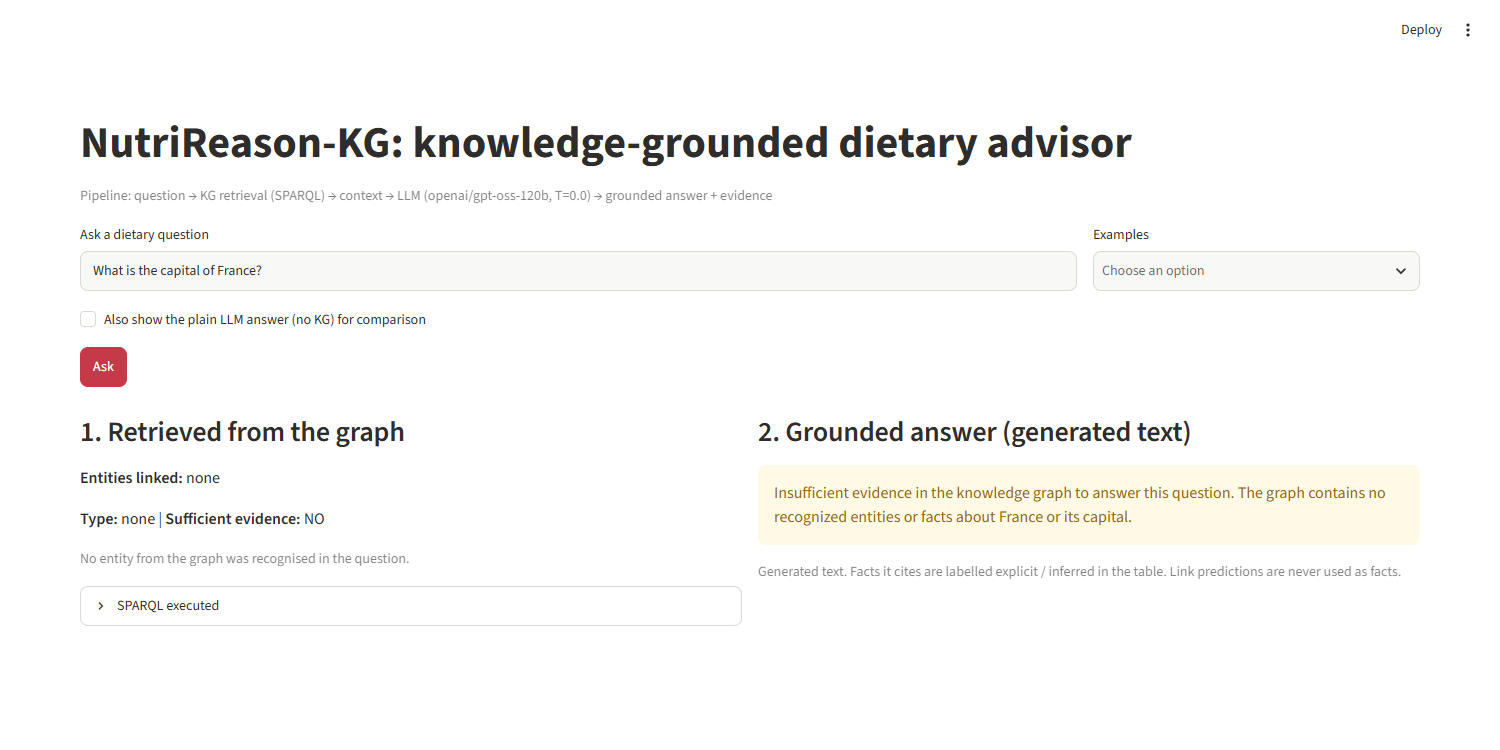
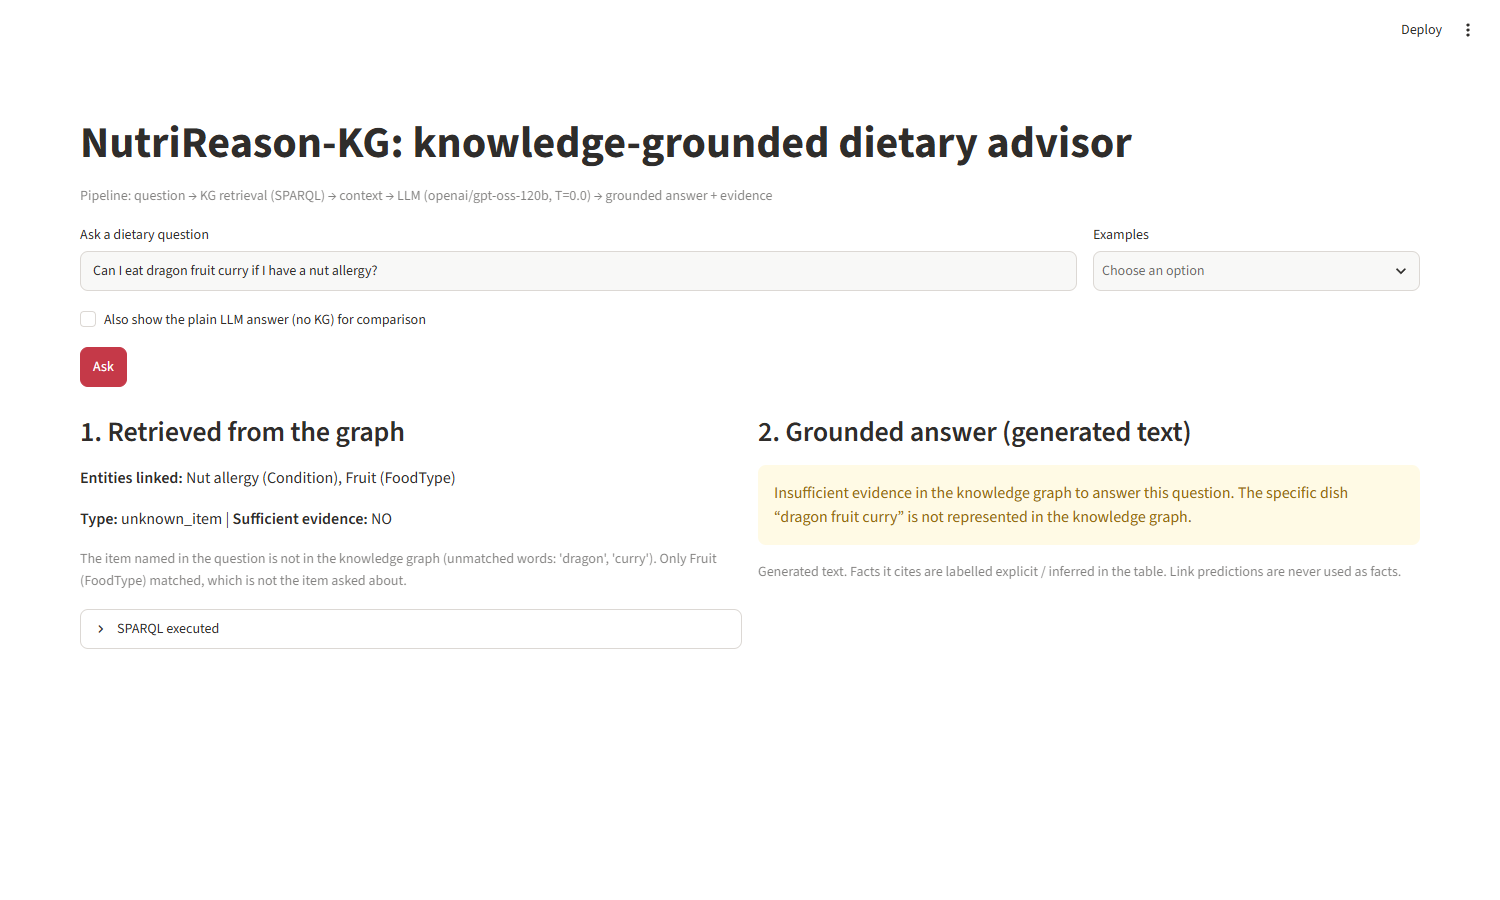
App screenshot for declined unknown item (dragon fruit curry); update Figure 16 caption; app/report script fixes

diff --git a/Report/build_report.py b/Report/build_report.py
@@ -138,7 +138,7 @@ B("<b>T-Box (Ontology/nutrireason_tbox.ttl, built in Protégé).</b> 12 core cla
   "10 object properties (hasIngredient, isIngredientOf, containsAllergen, belongsToGroup, partOfCategory, triggers, unsafeFor, hasRule, appliesTo, hasSource, restrictsNutrient) and 5 datatype properties (sugarPer100g, sodiumPer100g, caloriesPer100g, thresholdValue, ruleAction).")
 B("<b>Reasoning-enabling constructs:</b> RC1 subclass hierarchy (PeanutAllergen is a NutAllergen); RC2 hasValue restriction (NutAllergen triggers NutAllergy); RC3 transitive property partOfCategory; RC4 inverse property hasIngredient / isIngredientOf; RC5 property chain hasIngredient o containsAllergen -> containsAllergen; RC6 SWRL rules R1-R4 (+R5), re-implemented as SPARQL INSERT rules (Ontology/rules_graphdb.ru) because GraphDB does not execute SWRL.")
 B("<b>A-Box.</b> Generated by build_kg.py from D1 (food allergens: groups, types, classes), D2 (259 dishes and ingredients), D3 (USDA nutrients, 5,140 foods) and D4 (5 dietary rules). "
-  "Counts verified with rdflib in this iteration: <b>42,478 explicit triples</b> (T-Box + A-Box), <b>+7,673 inferred</b> by the rules = 50,151 total, far above the 500-triple minimum.")
+  "Counts verified with rdflib in this iteration: <b>42,424 explicit triples</b> (T-Box + A-Box), <b>+7,609 inferred</b> by the rules = 50,033 total, far above the 500-triple minimum. The same counts were confirmed in GraphDB 11.5.1 after the Iteration 2 reload (Figure 3).")
 B("<b>URI design.</b> Vocabulary uses a hash namespace (http://example.org/nutrireason# , prefix nr:), instances a slash namespace (.../resource/&lt;kind&gt;/&lt;slug&gt;) with kinds food, dish, ingredient, group, type, class, allergen, rule. Slug = lower-case ASCII with underscores (Almond Cookies -> dish/almond_cookies). Schema and data are separated; the same label in different kinds never clashes.")
 B("<b>Data cleaning (summary).</b> All CSVs read as text; whitespace and BOM removed; missing markers (None, N/A, NaN, '-') treated as null; exact duplicates and key duplicates dropped; USDA rows with missing/negative calories, sodium or sugar removed; D1 plurals folded for matching (almonds -> almond); allergens in D2 not explained by any ingredient asserted on the dish. Details: Report/DATA_PIPELINE.md.")
 img(P("Visualization", "protege_class_hierarchy.png"), "Figure 1. Class hierarchy in Protégé.", 13, 8)
@@ -197,9 +197,10 @@ for key, title in [("exp1_containsAllergen_explicit", "Experiment 1: hold out 15
           [[m, fm(d, "MRR"), fm(d, "Hits@1"), fm(d, "Hits@3"), fm(d, "Hits@10"), str(d["n_test"])] for m, d in metrics[key].items()],
           [4, 2.6, 2.6, 2.6, 2.6, 1.6])
 B("<b>Reading the results.</b> Hits@k is the fraction of held-out links whose true tail is in the model's top k; MRR is the mean of 1/rank. "
-  "<b>Experiment 1 (the meaningful test):</b> RotatE clearly beats the popularity baseline (MRR 0.60 vs 0.37, Hits@3 0.89 vs 0.43, Hits@10 0.97 vs 0.71), so it learns real structure about which ingredients carry which allergen. "
-  "TransE is weaker: it is better than the baseline only at Hits@10 and is <i>worse</i> on MRR and Hits@1, consistent with TransE's known difficulty with relations where many heads share one tail (many foods contain Dairy). "
-  "<b>Experiment 2 is a negative result:</b> unsafeFor has only four possible tails (the four conditions), so the popularity baseline is already very strong and it beats both embedding models on MRR and Hits@1. In addition, unsafeFor links are <i>derived</i> from containsAllergen/triggers and nutrient values, so the task is partly a re-derivation. We report it for transparency but draw no conclusion in favour of embeddings from it; for such deterministic links the symbolic rules are the right tool, and embeddings are useful for the sparse, noisy containsAllergen links.")
+  "<b>Experiment 1 (the meaningful test):</b> RotatE clearly beats the popularity baseline (MRR 0.612 vs 0.420; type-constrained 0.852 vs 0.420), so it learns real structure about which ingredients carry which allergen. "
+  "TransE is weaker (MRR 0.315, type-constrained 0.618; Hits@1 0.059 is below the baseline), consistent with TransE's known difficulty with relations where many heads share one tail (many foods contain Dairy). "
+  "<b>Type-constrained ranking.</b> The models first ranked every one of the 5,871 entities, while the baseline only ever ranks real allergens or conditions. Ranking only instances of the relation's range (45 allergens, 4 conditions) is the fair comparison; both columns are reported. "
+  "<b>Experiment 2 is a negative result:</b> against all entities the baseline has the best MRR (0.731 vs RotatE 0.662), but only because of the unequal ranking above. Type-constrained, the models are near-perfect (RotatE 0.994), yet only because all 2,071 unsafeFor links are produced by our own rules and leak through HighSugarFood/HighSodiumFood type triples (76% of them stay in training); random guessing among the 4 conditions already gives MRR 0.544. So Exp 2 does not show that embeddings find new knowledge; for such deterministic links the symbolic rules are the right tool. Full analysis and Experiment 3 (allergen suggestions for 289 foods with none, top 10 checked by hand): Report/LINK_PREDICTION.md.")
 H2("Sample predictions (labelled as predictions)")
 import csv
 for name in ["predictions_exp1_containsAllergen.csv", "predictions_exp2_unsafeFor.csv"]:
@@ -235,14 +236,15 @@ code("""User question
    v
 [5] Streamlit UI: question, linked entities, paths, fact table with tags, SPARQL executed, answer""")
 B("<b>Design choice.</b> We use SPARQL-template-generated context (a KG-RAG variant) rather than embedding-based retrieval, because the questions need exact numbers, thresholds and multi-hop paths, and templates make each retrieved fact auditable. The approach follows the retrieve-then-generate pattern of RAG (Lewis et al., 2020) and the surveys of graph-grounded generation (Edge et al., 2024; Peng et al., 2024), with structured graph facts instead of text chunks as context.")
-B("<b>Explicit vs inferred.</b> The graph is split into two files. abox.ttl + the T-Box hold the explicit triples; inferred.ttl (made by reasoning/materialize.py, i.e. the rules script run over the explicit graph) holds <i>only</i> the derived 7,673 triples. A retrieved fact is tagged explicit if it is in the first set and inferred if it is only in the second. GraphDB gives the same split by querying with inference switched off.")
-B("<b>Insufficient evidence.</b> If no graph entity or supported question pattern is recognised, or the SPARQL returns no facts, the retriever returns sufficient = false and the prompt instructs the model to reply 'Insufficient evidence in the knowledge graph'. If the model is given facts that do not contain the answer it must also decline (see the unseen-question check).")
+B("<b>Explicit vs inferred.</b> The graph is split into two files. abox.ttl + the T-Box hold the explicit triples; inferred.ttl (made by reasoning/materialize.py, i.e. the rules script run over the explicit graph) holds <i>only</i> the derived 7,609 triples. A retrieved fact is tagged explicit if it is in the first set and inferred if it is only in the second. GraphDB gives the same split by querying with inference switched off.")
+B("<b>Insufficient evidence.</b> If no graph entity or supported question pattern is recognised, or the SPARQL returns no facts, the retriever returns sufficient = false and the prompt instructs the model to reply 'Insufficient evidence in the knowledge graph'. If the model is given facts that do not contain the answer it must also decline (see the unseen-question check). "
+  "In Iteration 2 two retrieval gaps were fixed (Report/RETRIEVAL.md): a question about an item that is not in the graph (e.g. 'dragon fruit curry') now returns sufficient = false with the unmatched words named, instead of a list that only matched the word 'fruit'; and 'foods with sugar above the diabetes limit' now returns the list of foods above the 22.5 g threshold read from the rule node (669 foods) instead of the profile of the ingredient Sugar. evaluation/check_routes.py confirmed that the routes and facts of the 10 evaluation questions did not change.")
 H2("7.2 Prompts")
 from importlib import util
 spec = util.spec_from_file_location("llm", P("app", "llm.py")); llm = util.module_from_spec(spec); spec.loader.exec_module(llm)
 code("SYSTEM (LLM only): " + llm.SYSTEM_LLM_ONLY + "\n\nSYSTEM (KG-grounded):\n" + llm.SYSTEM_GROUNDED + "\n\nUSER (KG-grounded): CONTEXT FROM THE KNOWLEDGE GRAPH:\\n<question type | sufficiency | facts [id] (tag) s | p | o | paths>\\n\\nQUESTION: <question>", maxw=110)
 img(P("Report", "screenshots", "app_dish.png"), "Figure 15. Streamlit app: retrieved paths and facts (left), grounded answer (right, blue) and the plain-LLM answer (red) for comparison.", 14.5, 14)
-img(P("Report", "screenshots", "app_insufficient.png"), "Figure 16. Question with no graph evidence: no entities linked, 'Sufficient evidence: NO', and the model declines instead of inventing an answer.", 14.5, 7)
+img(P("Report", "screenshots", "app_insufficient.png"), "Figure 16. Question about an item that is not in the graph (dragon fruit curry): the retriever returns type unknown_item with 'Sufficient evidence: NO' and the model declines instead of inventing an answer.", 14.5, 7)
 
 # ----------------------------------------------------------------------------- 8 evaluation
 H1("8. LLM-only vs KG-grounded evaluation (10 competency questions)")
@@ -260,7 +262,7 @@ cA, cB = sum(r["correct_A"] for r in rows_ev), sum(r["correct_B"] for r in rows_
 B(f"<b>Result: correct answers A = {cA}/10, B = {cB}/10. Evidence available: A = 0/10, B = {sum(r['evidence_B'] for r in rows_ev)}/10</b> (every grounded answer cites fact ids that map to tagged graph facts).")
 B("<b>Unsupported / hallucinated claims (manual review).</b> LLM only: 9 of 10 answers contain claims the graph contradicts or does not contain (e.g. Pad Thai/pesto for CQ1/CQ12, 'condiments about 6000 mg' for CQ5, AHA/DASH as the guideline for CQ14 where the KG rule is WHO). The remaining one (CQ9) is approximately right (0.5 g, 620 mg) but not exact. KG-grounded: 1 of 10 (CQ1 listed 'Peanut Butter' under dishes although it is a food node).")
 B("<b>Where grounding helped:</b> dataset-specific facts (counts, exact values, hidden ingredients, which guideline the rule cites) that no model can know without the graph. <b>Where it did not:</b> LLM answers on general knowledge are often plausible in the real world but answer a different question than 'what does this graph say'; list questions are capped at 12-15 rows, so answers are partial (and say so).")
-B("<b>Caveat about the score.</b> The 10 questions were also used to debug the retriever (tie-breaking in entity linking, routing of 'above the limit' questions), so B = 10/10 is a development-set result. To test generalisation we ran 8 other questions (evaluation/unseen_check.py): the dish/food/safe-for/rule/insufficient cases were answered from the graph; two questions initially failed (the low-sugar rule was missing from the context; allergens with no linked condition such as gluten had no template) and the retriever was fixed afterwards. An unknown dish ('dragon fruit curry') was declined by the LLM, but the retriever still flagged the context as sufficient because the word 'fruit' matched a food group, a known weakness.")
+B("<b>Caveat about the score.</b> The 10 questions were also used to debug the retriever (tie-breaking in entity linking, routing of 'above the limit' questions), so B = 10/10 is a development-set result. To test generalisation we ran 8 other questions (evaluation/unseen_check.py): the dish/food/safe-for/rule/insufficient cases were answered from the graph; two questions initially failed (the low-sugar rule was missing from the context; allergens with no linked condition such as gluten had no template) and the retriever was fixed afterwards. An unknown dish ('dragon fruit curry') was at first declined only by the LLM, because the retriever flagged the context as sufficient after the word 'fruit' matched a food group; this was fixed in the retriever (Fix A, Section 7.1), and the dish is now declined at retrieval time.")
 
 # ----------------------------------------------------------------------------- 9 explainability
 H1("9. Explainability and provenance")
@@ -280,8 +282,8 @@ B("<b>Reading example 2.</b> hasIngredient and containsAllergen hops are explici
 
 # ----------------------------------------------------------------------------- 10 limitations
 H1("10. Limitations")
-for t in ["Retriever coverage: about a dozen question templates; questions outside them return 'insufficient' even when the graph could answer with a new template. Entity linking is lexical (labels and a small alias list), and can mislink (e.g. 'fruit' matching a group).",
-          "Open-world caveat: 'safe' means no unsafeFor fact exists. Foods without D1 allergen data are not reported as safe (the safe-for template requires a food group), but allergen annotations in D1/D2 are incomplete and sometimes wrong (Peanut butter -> Dairy; 'Sugar', 'Insulin', 'Allium' appear as allergens).",
+for t in ["Retriever coverage: about a dozen question templates; questions outside them return 'insufficient' even when the graph could answer with a new template. Entity linking is lexical (labels and a small alias list). Unknown items are detected from unmatched words, but if one word of an unknown dish is itself a food (e.g. 'mango lassi' -> Mango), that food's profile is still returned and only the LLM prompt makes it decline.",
+          "Open-world caveat: 'safe' means no unsafeFor fact exists. Foods without D1 allergen data are not reported as safe (the safe-for template requires a food group), but allergen annotations in D1/D2 are incomplete and sometimes wrong (e.g. Peanut butter -> Dairy). Non-allergen D1 labels such as 'Sugar' and 'Insulin' were removed in Iteration 2 (Section 3).",
           "USDA labels are abbreviated and noisy (e.g. 'Puddings, Cocnt Crm, Dry Mix'); thresholds (22.5 g sugar, 600 mg sodium per 100 g) are simplifications of the cited guidelines, applied per 100 g rather than per serving.",
           "R5 makes every dish containing table salt unsafe for hypertension, which over-flags. Nutrient values for dishes are not modelled (only ingredients).",
           "Link prediction: small graph, embedding dimension and epochs not tuned extensively; Experiment 2 has leakage by construction (see 6.3); predictions are not clinically validated.",

diff --git a/app/streamlit_app.py b/app/streamlit_app.py
@@ -18,7 +18,8 @@ st.title("NutriReason-KG: knowledge-grounded dietary advisor")
 st.caption(f"Pipeline: question -> KG retrieval (SPARQL) -> context -> LLM ({llm.MODEL}, T={llm.TEMPERATURE}) -> grounded answer + evidence")
 examples = ["Which dishes contain a nut allergen?", "Why is Almond Cookies unsafe, and for which conditions?",
             "Which foods should someone with hypertension avoid?", "Which guideline supports the rule for type 2 diabetes?",
-            "Is chocolate syrup ok for type 2 diabetes?", "What is the capital of France?"]
+            "Is chocolate syrup ok for type 2 diabetes?", "Which foods have sugar above the diabetes limit?",
+            "Can I eat dragon fruit curry if I have a nut allergy?", "What is the capital of France?"]
 c1, c2 = st.columns([3, 1])
 qp = st.query_params
 q = c1.text_input("Ask a dietary question", value=qp.get("q", examples[1]))
